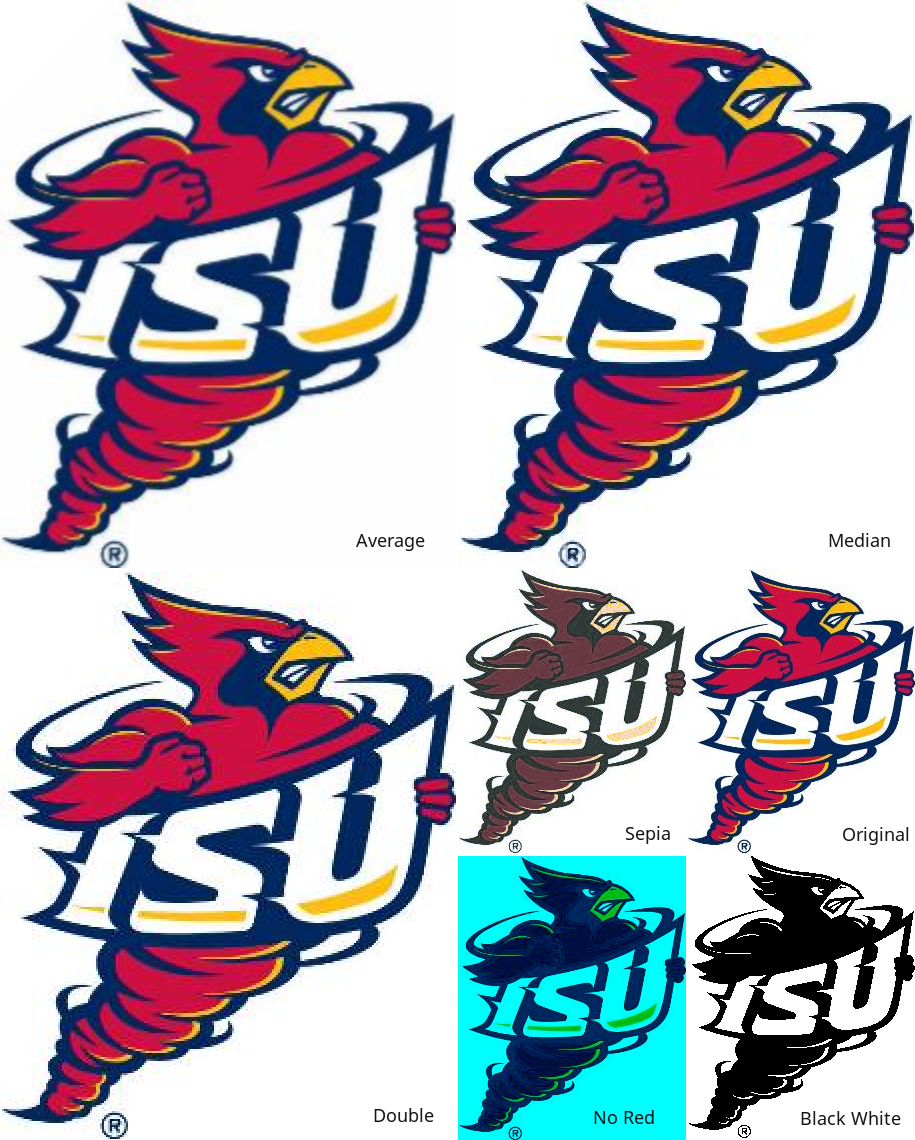
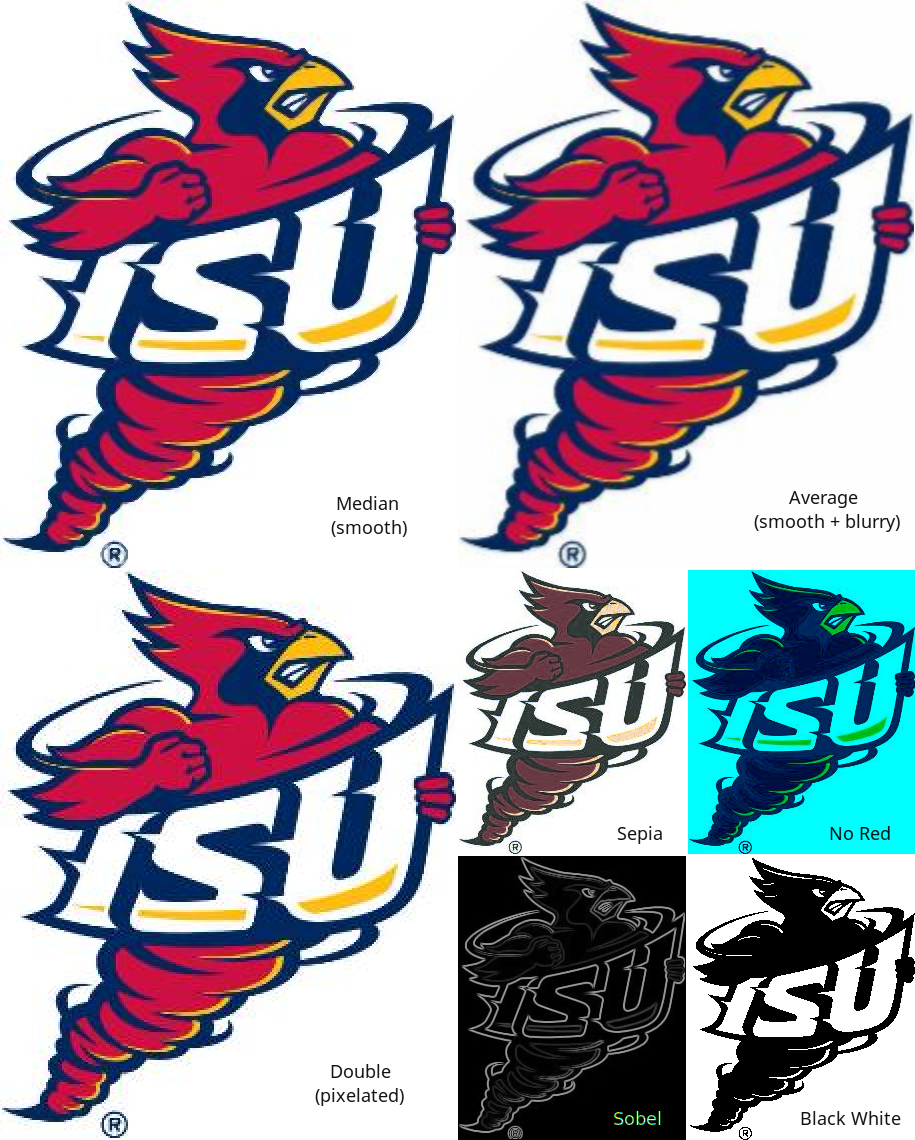
added sobel edge detection algorithm

diff --git a/image_filter.py b/image_filter.py
@@ -22,7 +22,7 @@
     
     TODO:
     1. Use colorsys to add HLS, HSV, YIQ compatibility and customization (satu-
-    ration, intensity, lightness)
+    ration, (r+g+b), lightness)
     2. Write testcases
     3. Add file type conversion
     4. Add command line arguments
@@ -36,6 +36,7 @@
 
 
 import cImage as image
+from math import sqrt
 from os.path import splitext
 
 class ImageFilter(object):
@@ -204,7 +205,66 @@ class ImageFilter(object):
                     self.newimg.setPixel(col,row,p)
         self.write("_median")
 
+    def sobel(self, draw=0):
+        "Using the Sobel Algorithm to apply Edge Detection to an image."
+        self.draw = draw
+        # Overwriting self.newimg because we need an empty canvas. Otherwise
+        # the existing pixels would influence the newly written ones.
+        self.newimg = image.EmptyImage(self.width, self.height)
+        if self.draw:
+            self.win = image.ImageWin(self.img_file, self.width*2, self.height*2)
+            
+        # Abandon all hope, ye who enter here. Terrible nested logic incoming.
+        for x in range(1, self.width-1):
+            for y in range(1, self.height-1):
+                # Apply the kx and ky gradient kernels to all pixels.
+                kx = ky = 0
+                for xx in range(x-1, x+2):
+                    for yy in range(y-1, y+2):
+                        # Extract RGB of the current neighbor pixel.
+                        p = self.oldimg.getPixel(xx, yy)
+                        r = p.getRed()
+                        g = p.getGreen()
+                        b = p.getBlue()
+
+                        # Left Row.
+                        if xx == x-1:
+                            if yy == y-1:
+                                kx -= (r+g+b)
+                                ky -= (r+g+b)
+                            elif yy == y:
+                                kx -= 2 * (r+g+b)
+                            elif yy == y+1:
+                                kx -= (r+g+b)
+                                ky += (r+g+b)
+                        # Middle Row.
+                        elif xx == x and yy == y-1:
+                            ky -= 2 * (r+g+b)
+                        elif xx == x and yy == y+1:
+                            ky += 2 * (r+g+b)
+                        # Right Row.
+                        elif xx == x+1:
+                            if yy == y-1:
+                                kx += (r+g+b)
+                                ky -= (r+g+b)
+                            elif yy == y:
+                                kx += 2 * (r+g+b)
+                            elif yy == y+1:
+                                kx += (r+g+b)
+                                ky += (r+g+b)
+                # Use Pythagoras' theorem to calc the relative length of kx, ky.
+                length = sqrt((kx**2) + (ky**2))
+                # Each pixels intensity can have 3*255=765 and the maximum is
+                # 4*765=3060. The final range is (sqrt(2*3060**2)=4328.
+                # Now we can normalize the length to the possible range:
+                length = int(length / 4328.0 * 255)
+
+                # Finally, apply the normalized length to each pixel.
+                p.red = p.green = p.blue = length
+                self.newimg.setPixel(x, y, p)
+        self.write("_sobel")
+
 
 if __name__ == "__main__":
-    img = ImageFilter("example.png")
-    img.blackwhite()
+    img = ImageFilter("cy.png")
+    img.removecolor()
